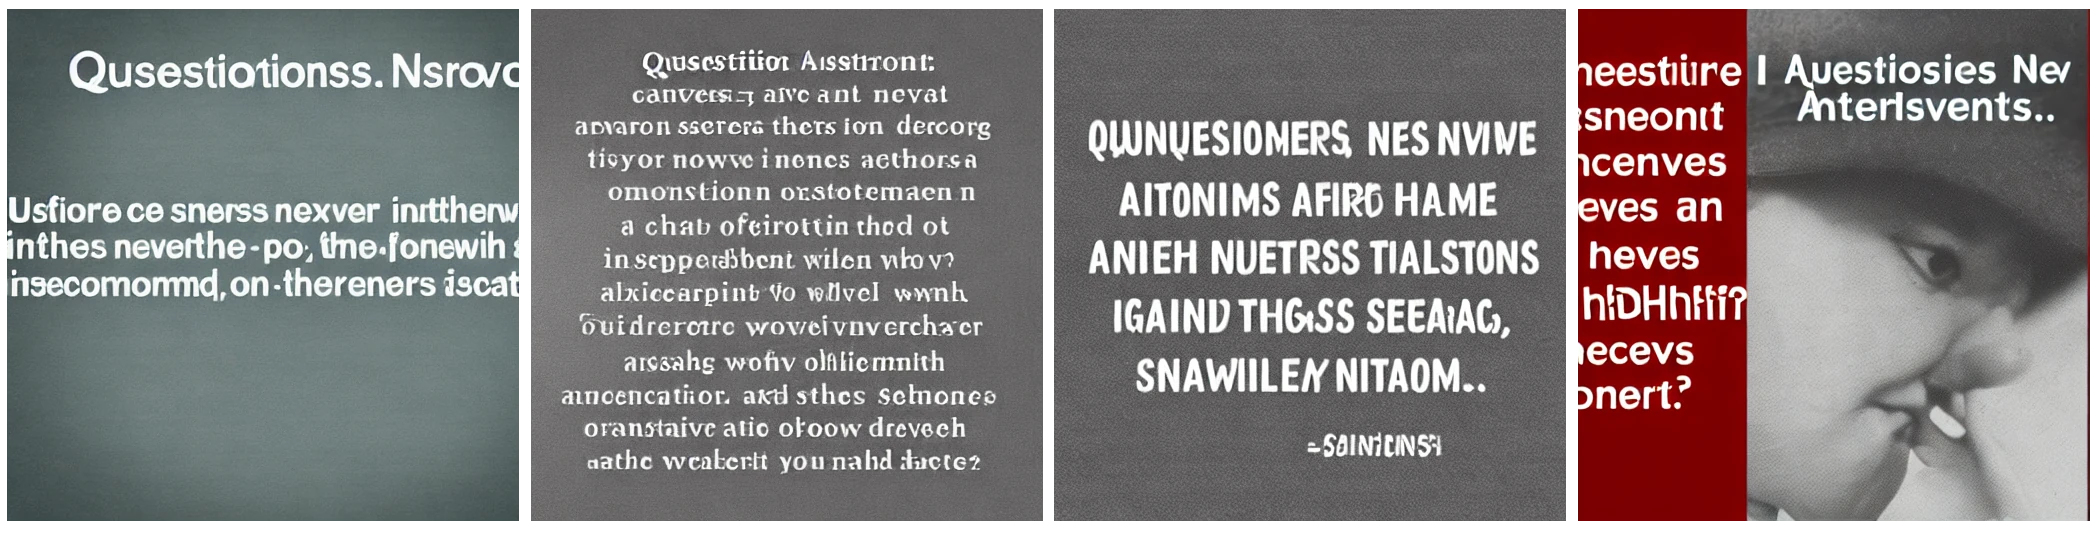
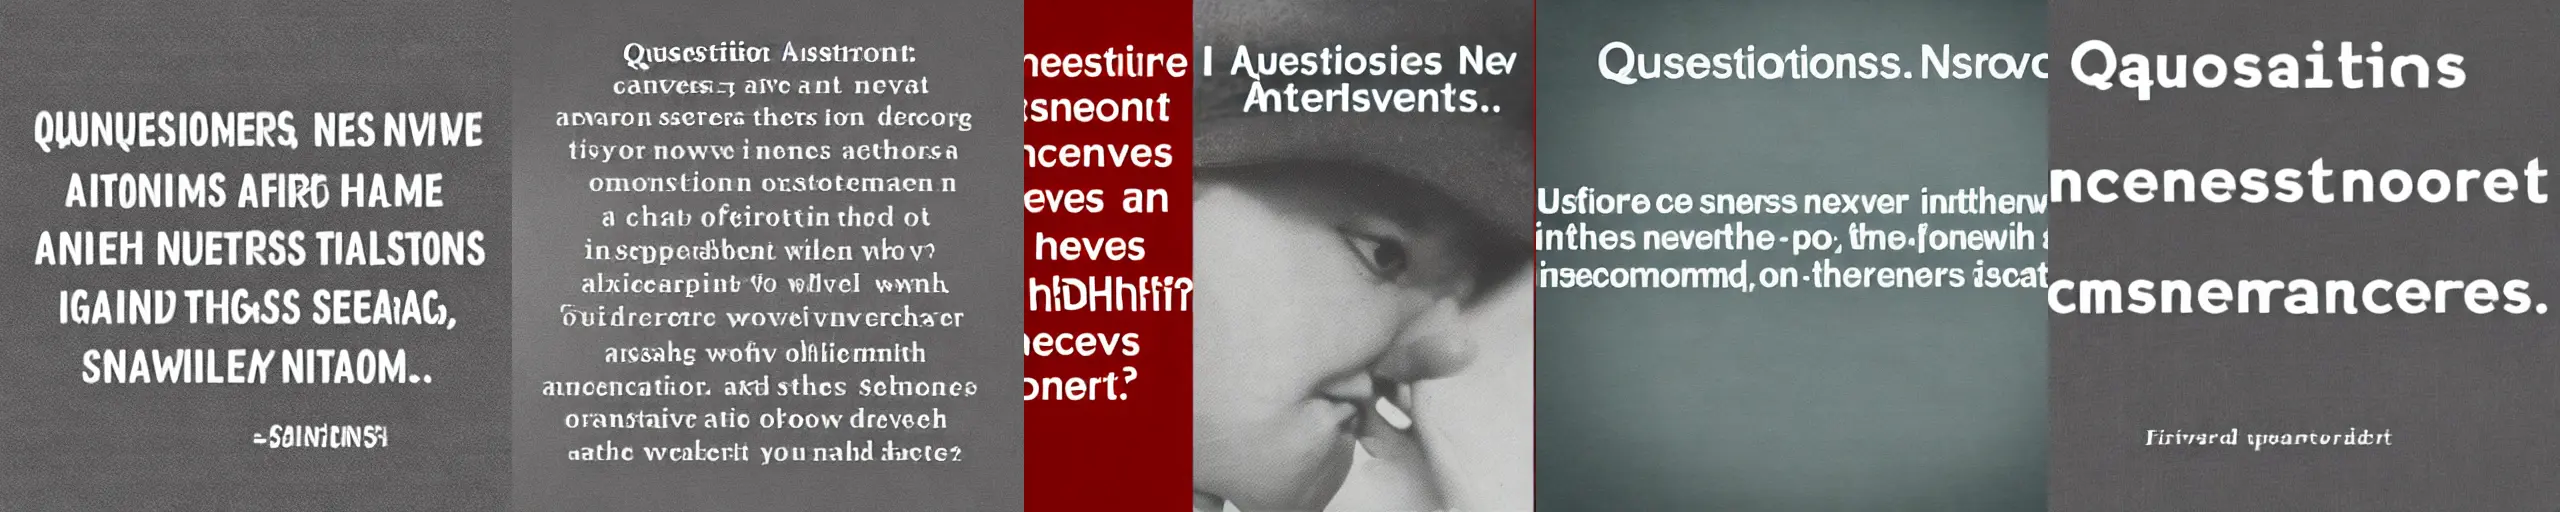
update stable diffusion fun

diff --git a/content/posts/comsci/2022-11-10-stable-diffusion-fun/index.md b/content/posts/comsci/2022-11-10-stable-diffusion-fun/index.md
@@ -1,6 +1,6 @@
 ---
 title: A few fun discoveries about Stable Diffusion
-description: Testing the literary limit of Stable Diffusion
+description: Testing the literary limit of Stable Diffusion with literature
 date: 2022-11-10
 slug: stable-diffusion-fun
 tags: 
@@ -39,7 +39,7 @@ Sometimes, it will go a different route, and illustrate like a book of classics:
 <figcaption>
 
 If the lower classes don't set us a good example what on earth is the use of them? They seem, as a class, to have absolutely no sense of moral responsibility.  
---Oscar Wilde[^wildeImportanceBeingEarnest2017]"
+--Oscar Wilde[^wildeImportanceBeingEarnest2017]
 </figcaption>
 </figure>
 
@@ -57,7 +57,7 @@ Waxwings are berry-pecking / a cicada sings.
 </figcaption>
 </figure>
 
-Another limitation I've found is that Stable Diffusion will sometimes ignore a part of the prompt entirely. This is quite interesting because it obviously is capable of juxtaposing unrelated elements together, as demonstrated by various examples in its [repository](https://github.com/CompVis/stable-diffusion). 
+Another limitation I found is that Stable Diffusion sometimes ignores parts of the prompt. This is quite interesting because it obviously is capable of juxtaposing unrelated elements together, as demonstrated by the famous example of an astronaut riding a horse, in its [repository](https://github.com/CompVis/stable-diffusion). 
 
 A beautiful line of poetry, "Waxwings are berry-pecking / a cicada sings", is not as abstract as the previous section. It depicts two subjects, a bird and a bug, and yet Stable Diffusion absolutely refuses to recognize the existence of the latter.
 
@@ -73,7 +73,7 @@ A cicada sings / Waxwings are berry-pecking.
 
 Nope. Only the bird itself. Beautifully drawn, but missing its companion.
 
-Could it be the realistic style which it's going for? Let's try adding some stylistic modifiers to the prompt:
+Maybe it's the realistic style which it's going for? Let's try adding some stylistic modifiers to the prompt:
 
 <figure>
 
@@ -99,15 +99,15 @@ Waxwings are berry-pecking / a cicada sings. Oil painting.
 Waxwings are berry-pecking / a cicada sings. Photo.
 </figcaption></figure>
 
-And if you look carefully, you'll notice that even "berry" isn't always there. The model sees "waxwings" and that's the only thing it cares about.
+Still, the cicada is nowhere to be found. And if you look carefully, you'll notice that even "berry" isn't always there. The model concentrates on "waxwings", and that's the only thing it seems to _care_ about, if you'll excuse the inaccurately personified verb. Perhaps the model has a bias in its training set, some objects being more likely to appear than others, and thus carrying a heavier weight. An image with waxwings, berries, and a cicada is less likely than an image with just a waxwing, even given a prompt that includes all three elements. Is this a fundamental limitation on the model, or is it a deficiency in the training data?
 
 ## Last word
 
-Stable Diffusion, like many other machine learning models dabbling in art, astonishes the programmer part of my brain. It's utterly ridiculous that we can make program generate coherent images according to prompt, without hard-coding any rule about what it means for an image to be coherent. We give zero _priori_ to the model on what constitutes a photo or an oil painting, or the anatomy of waxwings, or the color of trees and leaves. 
+Stable Diffusion, like many other machine learning models dabbling in art, astonishes the programmer part of my brain. It's utterly ridiculous that we can prompt the program to generate coherent images, without hard-coding any rule about what it means for an image to be coherent. We give zero _a priori_ to the model on what constitutes a photo or an oil painting, or the anatomy of waxwings, or the color of trees and leaves, and yet, it does show a level of understanding of all those concepts. Put aside the thorny question of "how do you define 'understand'?", if we merely judge the program by its performance, it is capable of generating images where a human would recognize the objects, styles, lighting conditions, etc. to be the same as what the prompt describes. And again, without codifying such objects or styles by a human.
 
 But at the same time, the other parts of my brain still smirks a bit at the results. When you jump even slightly out of the box, Stable Diffusion starts to show its limits. And even within the box, it takes a lot of word tweaking and cherry-picking to get some useful images out of the model. A lot of hobbyists left the model to run overnight on a long list of prompts. In other areas, the music generated by machine learnings are still quite bad, and seems to go from nowhere to nowhere, if we judge the music entirely on its own merit. The same goes for text generation.
 
-It is quite disquieting to see just how close we are to computer programs surpassing human in the field of creative arts, and perhaps even programming itself. We are not there yet, but I'm willing to bet that it's going to happen within the life time of my generation. Where would that leave us? To become Olympians of the machines and reap the fruit of their labor? Or to compete with the machines, and eventually---inevitably---become obsolete? Will the society become more equal as the rising productivity and efficiency alleviate scarcity, or will the divide deepen between the wealthy and powerful, and the underprivileged?
+It is quite disquieting to see just how close we are to computer programs surpassing human in the field of creative arts, and perhaps even programming itself. We are not there yet, but I'm willing to bet that it's going to happen within the lifetime of my generation. Where would that leave us? To become the Olympians of the machines and reap the fruit of their labor? Or to compete with the machines, and eventually---inevitably---become obsolete? Will the society become more equal as the rising productivity and efficiency alleviate scarcity, or will the divide deepen between the wealthy and powerful, and the underprivileged?
 
 > Anybody that competes with slaves becomes a slave
 >
